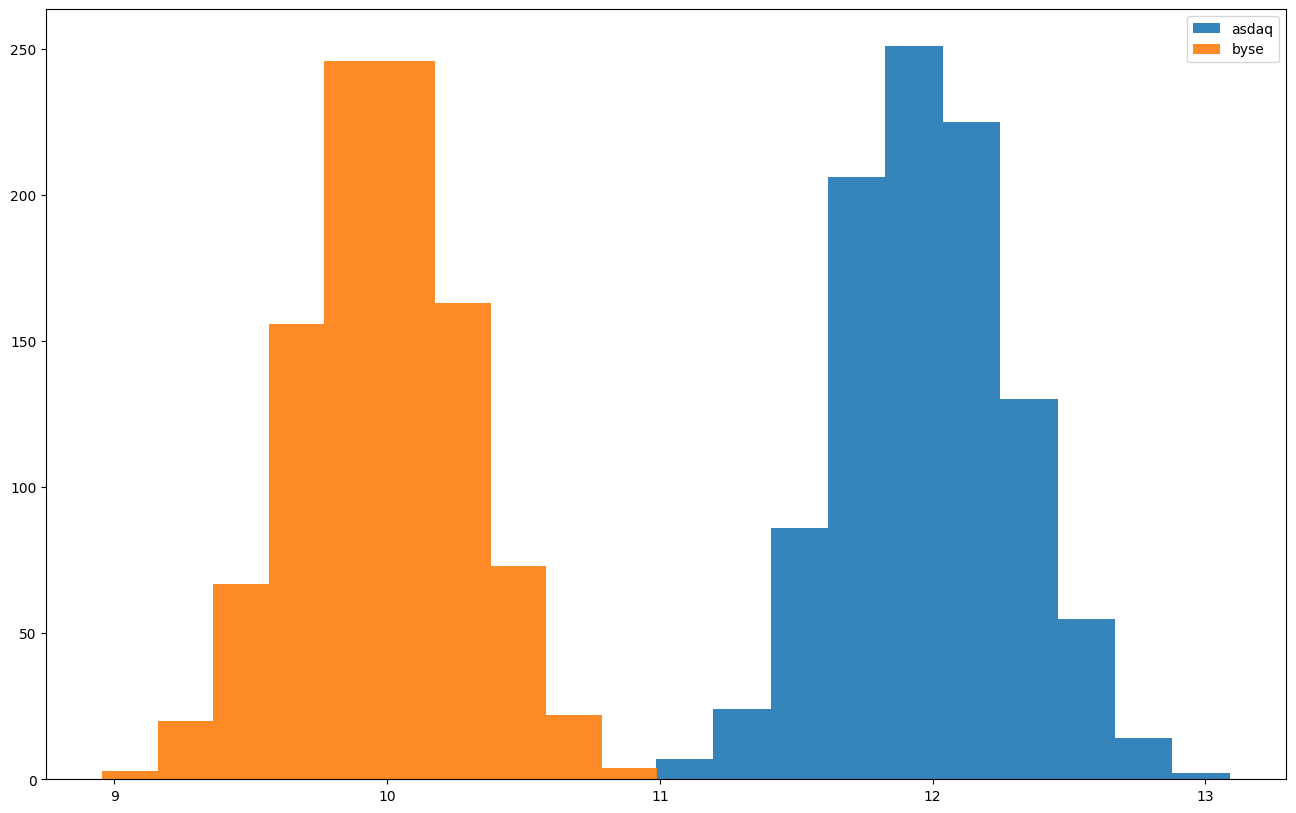
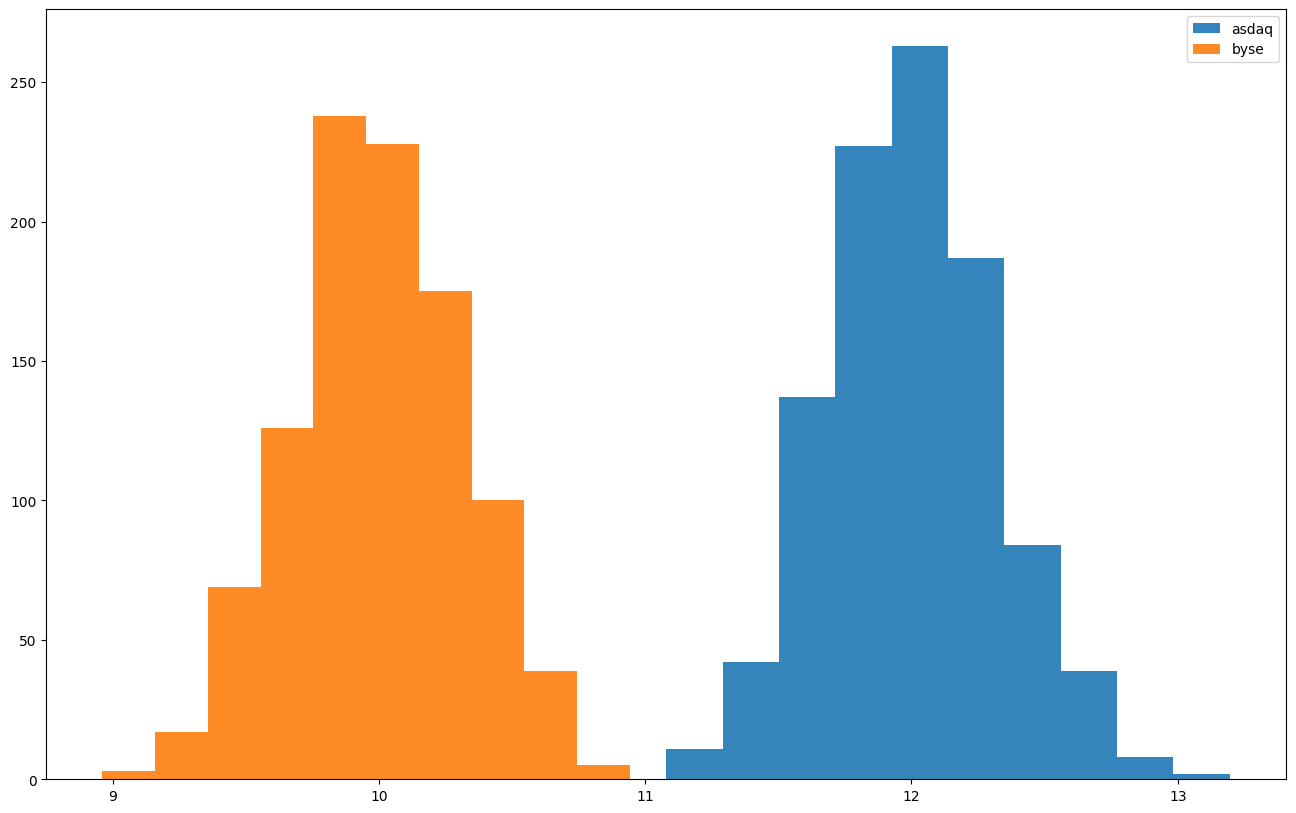
chore: update ab testing

diff --git a/docs/02_ab_testing.v2.md b/docs/02_ab_testing.v2.md
@@ -50,10 +50,10 @@ byse = TimeOfDayEffectWrapper(byse)
 print(Money(byse.sample()))
 ```
 
-    $10.10
-    $12.92
-    $10.41
-    $9.54
+    $10.84
+    $11.36
+    $11.11
+    $9.05
 
 
 
@@ -62,8 +62,8 @@ print(Money(np.mean([byse.sample() for _ in range(100)])))
 print(Money(np.mean([asdaq.sample() for _ in range(100)])))
 ```
 
-    $9.84
-    $12.04
+    $10.11
+    $12.07
 
 
 
@@ -77,9 +77,9 @@ print(np.std([aggregate_measurements(100, asdaq) for _ in range(1000)]))
 print(np.std([aggregate_measurements(1000, asdaq) for _ in range(1000)]))
 ```
 
-    0.31283346581290916
-    0.10087738136912469
-    0.03147607502280195
+    0.3198147029019297
+    0.1013954311789923
+    0.03172889077808723
 
 
 
@@ -95,9 +95,9 @@ print("Std Error: {:.4f}".format(st.sem(sample_population)))
 print("Std Deviation: {:.4f}".format(sample_population.std()))
 ```
 
-    Mean: 11.9891
-    Std Error: 0.0096
-    Std Deviation: 0.3039
+    Mean: 11.9937
+    Std Error: 0.0099
+    Std Deviation: 0.3136
 
 
 
@@ -186,8 +186,8 @@ print("sem={:.4f} | std={:.4f} | mean={:.4f}".format(sem, std, mean))
 print(len(asdaq_samples))
 ```
 
-    sem=0.2135 | std=1.1885 | mean=11.6697
-    32
+    sem=0.1638 | std=0.8822 | mean=11.8228
+    30
 
 
 
@@ -199,7 +199,7 @@ print("sem={:.4f} | std={:.4f} | mean={:.4f}".format(sem, std, mean))
 print(len(byse_samples))
 ```
 
-    sem=0.1606 | std=0.8649 | mean=9.9430
+    sem=0.1694 | std=0.9124 | mean=9.7618
     30
 
 
@@ -219,7 +219,7 @@ tstat, pvalue, pvalue < 0.05, st.norm.sf(tstat)
 
 
 
-    (6.463670651523492, 5.109658360505467e-11, True, 5.109658360505467e-11)
+    (8.745161849389135, 1.1134809803486333e-18, True, 1.1134809803486333e-18)
 
 
 
@@ -253,7 +253,7 @@ es
 
 
 
-    1.6261971850246641
+    2.2579910801715046
 
 
 
@@ -267,7 +267,30 @@ statistics.stdev(asdaq_samples), np.std(asdaq_samples, ddof=1)
 
 
 
-    (1.2075548861950471, 1.2075548861950471)
+    (0.8972895404639324, 0.8972895404639324)
+
+
+
+
+```python
+es, var_ = sm.effectsize_smd(
+    # Treatment.
+    np.mean(byse_samples),
+    np.std(byse_samples, ddof=1),
+    len(byse_samples),
+    # Control.
+    np.mean(asdaq_samples),
+    np.std(asdaq_samples, ddof=1),
+    len(asdaq_samples),
+)
+es = np.abs(es)
+es, var_
+```
+
+
+
+
+    (2.228666520688758, 0.11096700969591153)
 
 
 
@@ -289,7 +312,7 @@ sm.NormalIndPower().solve_power(
 
 
 
-    4.675754857627041
+    2.4894763926783203
 
 
 
@@ -308,7 +331,7 @@ sm.zt_ind_solve_power(
 
 
 
-    4.675754857627041
+    2.4894763926783203
 
 
 
@@ -327,7 +350,7 @@ sm.tt_ind_solve_power(
 
 
 
-    5.500558161189811
+    3.4312713807923068
 
 
 
@@ -358,7 +381,7 @@ sample_size(asdaq_samples, byse_samples)
 
 
 
-    4.628452969395122
+    2.4252342732191563
 
 
 
@@ -384,7 +407,7 @@ analyze(asdaq_samples, byse_samples)
 
 
 
-    (6.463670651523492, 5.109658360505467e-11)
+    (8.745161849389135, 1.1134809803486333e-18)
 
 
 
@@ -400,6 +423,6 @@ sm.ttest_ind(
 
 
 
-    (6.4636706515234765, 1.2695504612656468e-08, 56.63173232071476)
+    (8.745161849389127, 1.7664545981488526e-12, 57.93449208964887)
 
 
